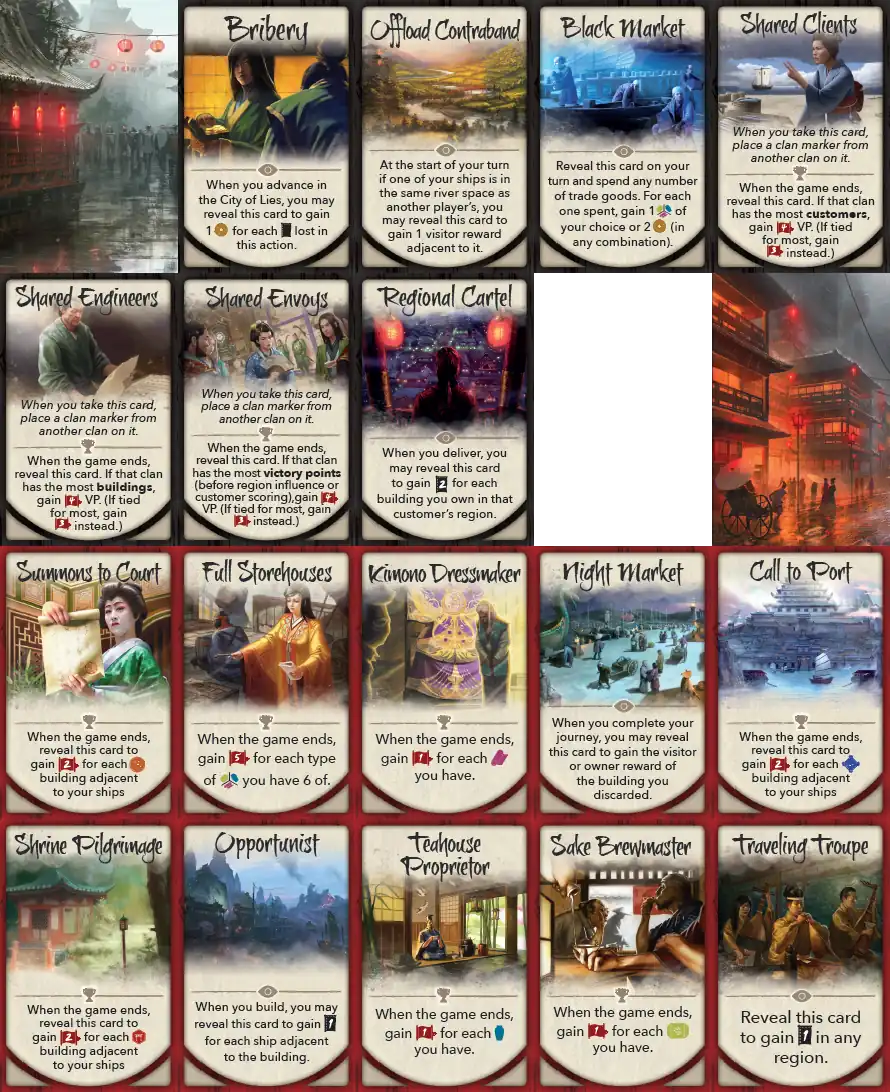
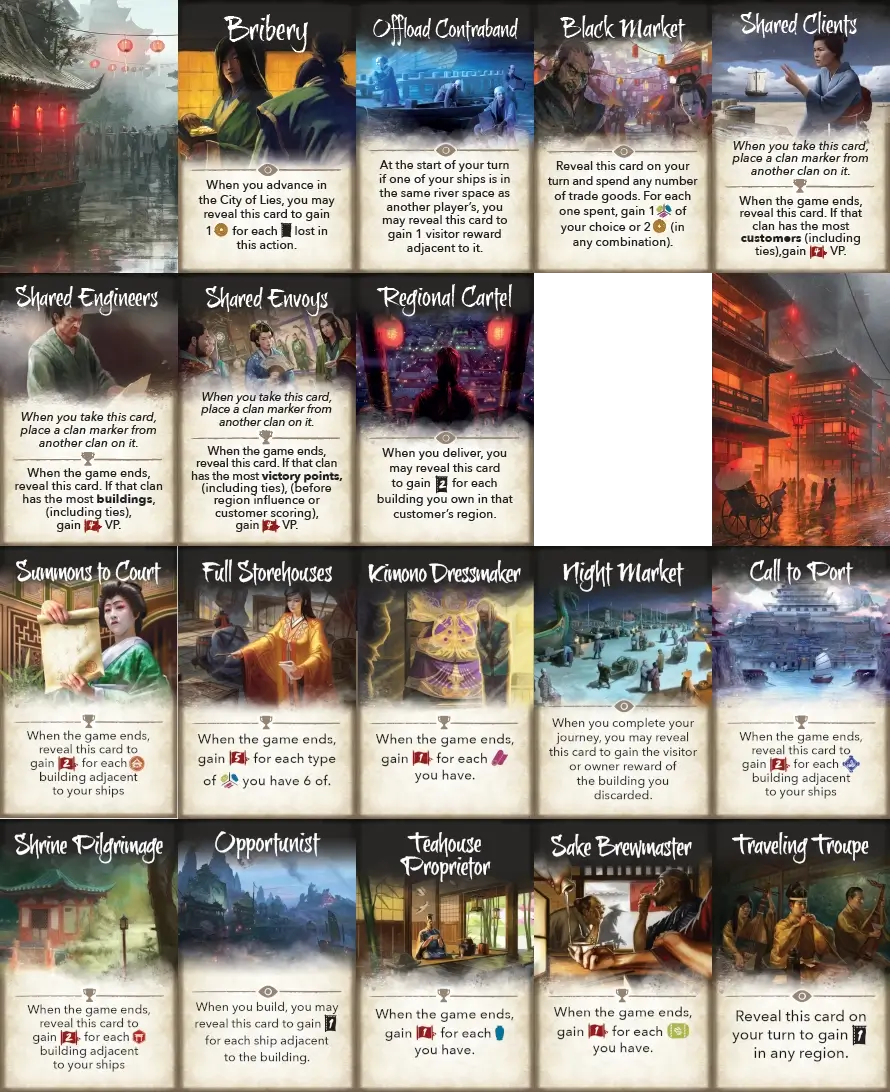
[Module 2][IMG] City cards
- reword Shared city cards
- tie is also rewarded 4 points

diff --git a/riverofgoldnightmarket.js b/riverofgoldnightmarket.js
@@ -5594,19 +5594,19 @@ function (dojo, declare, BgaAnimations, BgaDice) {
                 [ this.gamedatas.enums.CITY_CARD_TYPE.SHARED_CLI    , 
                     `
                     <span>${this.fsr(_("When you take this card, place a clan marker from another clan on it."), {})}</span>
-                    <span>${this.fsr(_("When the game ends, reveal this card. If that clan has the most customers, gain ${icon_score}."), {'icon_score': this.formatIcon('score',4),})}</span>
+                    <span>${this.fsr(_("When the game ends, reveal this card. If that clan has the most customers (including ties), gain ${icon_score}."), {'icon_score': this.formatIcon('score',4),})}</span>
                     `
                 ],
                 [ this.gamedatas.enums.CITY_CARD_TYPE.SHARED_ENG    , 
                     `
                     <span>${this.fsr(_("When you take this card, place a clan marker from another clan on it."), {})}</span>
-                    <span>${this.fsr(_("When the game ends, reveal this card. If that clan has the most buildings, gain ${icon_score}."), {'icon_score': this.formatIcon('score',4),})}</span>
+                    <span>${this.fsr(_("When the game ends, reveal this card. If that clan has the most buildings (including ties), gain ${icon_score}."), {'icon_score': this.formatIcon('score',4),})}</span>
                     `
                 ],
                 [ this.gamedatas.enums.CITY_CARD_TYPE.SHARED_ENV    , 
                     `
                     <span>${this.fsr(_("When you take this card, place a clan marker from another clan on it."), {})}</span>
-                    <span>${this.fsr(_("When the game ends, reveal this card. If that clan has the most victory points (before region influence or customer scoring), gain ${icon_score}."), {'icon_score': this.formatIcon('score',4),})}</span>
+                    <span>${this.fsr(_("When the game ends, reveal this card. If that clan has the most victory points (including ties), (before region influence or customer scoring), gain ${icon_score}."), {'icon_score': this.formatIcon('score',4),})}</span>
                     `
                 ],
                 [ this.gamedatas.enums.CITY_CARD_TYPE.CARTEL        ,  this.fsr(_("When you deliver, you may reveal this card to gain ${influence} for each building you own in that customer’s region."), {'influence':'','n2':2 })],
@@ -5657,7 +5657,7 @@ function (dojo, declare, BgaAnimations, BgaDice) {
                     <span>${this.fsr(_("When the game ends, gain ${icon_score} for each ${resource} you have."), {'icon_score': this.formatIcon('score',1), 'resource': this.formatIcon(RESOURCES[RESOURCE_TYPE_RICE])})}</span>
                     `
                 ],
-                [ this.gamedatas.enums.CITY_CARD_TYPE.TRAVEL_TRO    ,  this.fsr(_("Reveal this card to gain ${influence} in any region."), {'influence':'','n2':1 })],
+                [ this.gamedatas.enums.CITY_CARD_TYPE.TRAVEL_TRO    ,  this.fsr(_("Reveal this card on your turn to gain ${influence} in any region."), {'influence':'','n2':1 })],
             ]);
             descriptionLine = descriptionMap.get(card.type);
             let effectMap = new Map([

diff --git a/tests/States/ScoringTest.php b/tests/States/ScoringTest.php
@@ -4459,7 +4459,7 @@ final class ScoringTest extends TestCase
                 ], 
                 SCORING_DELIVERED => 2, 
                 SCORING_CUSTOMERS=> 0,
-                SCORING_CITY_CARD => 0,//+0
+                SCORING_CITY_CARD => 4,//+4
             ],
             2 => [ // PLAYER 2
                 SCORING_INGAME => 29, 
@@ -4496,11 +4496,98 @@ final class ScoringTest extends TestCase
         assertSame($expectedNotifs, TestDatas::$notifs['all']);
         $endScoringDatas = Globals::getEndScoring();
         assertSame($expectedScoring, $endScoringDatas);
-        assertSame(21,  TestDatas::$players[1]['player_score']);//19 + 2 Reduce to lowest score
+        assertSame(25,  TestDatas::$players[1]['player_score']);//19 + 6 Reduce to lowest score
         assertSame(0,  TestDatas::$players[1]['player_score_aux']);
-        assertSame(21,  TestDatas::$players[2]['player_score']);//+2 Reduce to lowest score
+        assertSame(25,  TestDatas::$players[2]['player_score']);//+2 Reduce to lowest score
         assertSame(0,  TestDatas::$players[2]['player_score_aux']);//REDUCED
         assertSame(3, Globals::getAutomaScore());
+    }
+    public function test_computeScoring_CityCard_SharedCli_Automa_Worst_KO(): void
+    {
+        
+        logTestRun(__CLASS__.".".__FUNCTION__);
+        $game = new GameMock();
+        GamestateMachine::$test_current_state = ST_END_SCORING;
+        Globals::setOptionSeishin(OPTION_SEISHIN_LEVEL_1);
+        Globals::setOptionCity(OPTION_CITY_OF_LIES_ON);
+        TestDatas::$players[2]['player_score'] = 29;
+        TestDatas::$cards[221]['card_location'] = CARD_CITY_LOCATION_HAND;
+        TestDatas::$cards[221]['player_id'] = 1;
+        TestDatas::$cards[221]['card_state'] = 1;
+        TestDatas::$cards[221]['type'] = CITY_CARD_TYPE::SHARED_CLI->value;
+        TestDatas::$tokens[43] = ['result_associative_index' => 43, 'meeple_id' => 43, 'meeple_state' => 1, 'meeple_location'=> MEEPLE_LOCATION_HIDDEN_CARD."1-".CARD_TYPE_CITY."-1-".CARD_CITY_LOCATION_HAND,'type' => MEEPLE_TYPE_CLAN_MARKER,  'player_id' => AUTOMA_PLAYER_ID,  ];
+        TestDatas::$cards[11]['card_location'] = CARD_LOCATION_DELIVERED;
+        TestDatas::$cards[11]['player_id'] = 1;
+        TestDatas::$cards[12]['card_location'] = CARD_LOCATION_DELIVERED;
+        TestDatas::$cards[12]['player_id'] = 1;
+        TestDatas::$cards[13]['card_location'] = CARD_LOCATION_DELIVERED;
+        TestDatas::$cards[13]['player_id'] = 2;
+        $expectedNotifs = [
+            "computeFinalScore",
+            "revealCityCard-1",
+            "scoreCityCard-1",
+            "scoreDeliveries-1", 
+            "scoreDeliveries-2", 
+            "scoreDeliveries--123", 
+            "endResourcesForCustomers--123", 
+            "teamWin",
+        ];
+        $expectedScoring = [
+            1 => [ // PLAYER 1
+                SCORING_INGAME => 19, 
+                SCORING_INFLUENCE => [
+                    REGION_1 => 0,
+                    REGION_2 => 0,
+                    REGION_3 => 0,
+                    REGION_4 => 0,
+                    REGION_5 => 0,
+                    REGION_6 => 0,
+                ], 
+                SCORING_DELIVERED => 5, 
+                SCORING_CUSTOMERS=> 0,
+                SCORING_CITY_CARD => 0,//+0
+            ],
+            2 => [ // PLAYER 2
+                SCORING_INGAME => 29, 
+                SCORING_INFLUENCE => [
+                    REGION_1 => 0,
+                    REGION_2 => 0,
+                    REGION_3 => 0,
+                    REGION_4 => 0,
+                    REGION_5 => 0,
+                    REGION_6 => 0,
+                ], 
+                SCORING_DELIVERED => 2, 
+                SCORING_CUSTOMERS=> 0,
+                SCORING_CITY_CARD => 0,
+            ],
+            AUTOMA_PLAYER_ID => [ 
+                SCORING_INGAME => 0, 
+                SCORING_INFLUENCE => [
+                    REGION_1 => 0,
+                    REGION_2 => 0,
+                    REGION_3 => 0,
+                    REGION_4 => 0,
+                    REGION_5 => 0,
+                    REGION_6 => 0,
+                ], 
+                SCORING_DELIVERED => 0,
+                SCORING_CUSTOMERS => 0,
+                SCORING_CITY_CARD => 0,
+            ],
+        ];
+
+        $game->stScoring();
+        
+        assertSame($expectedNotifs, TestDatas::$notifs['all']);
+        $endScoringDatas = Globals::getEndScoring();
+        assertSame($expectedScoring, $endScoringDatas);
+        assertSame(24,  TestDatas::$players[1]['player_score']);//19 + 5 Reduce to lowest score
+        assertSame(0,  TestDatas::$players[1]['player_score_aux']);
+        assertSame(24,  TestDatas::$players[2]['player_score']);//+2 Reduce to lowest score
+        assertSame(0,  TestDatas::$players[2]['player_score_aux']);//REDUCED
+        assertSame(0, Globals::getAutomaScore());
+    
     }
     public function test_computeScoring_CityCard_SharedEngineers_Automa_Leads(): void
     {
@@ -4622,6 +4709,87 @@ final class ScoringTest extends TestCase
                 ], 
                 SCORING_DELIVERED => 0, 
                 SCORING_CUSTOMERS=> 0,
+                SCORING_CITY_CARD => 4,//+4
+            ],
+            2 => [ // PLAYER 2
+                SCORING_INGAME => 29, 
+                SCORING_INFLUENCE => [
+                    REGION_1 => 0,
+                    REGION_2 => 0,
+                    REGION_3 => 0,
+                    REGION_4 => 0,
+                    REGION_5 => 0,
+                    REGION_6 => 0,
+                ], 
+                SCORING_DELIVERED => 0, 
+                SCORING_CUSTOMERS=> 0,
+                SCORING_CITY_CARD => 0,
+            ],
+            AUTOMA_PLAYER_ID => [ 
+                SCORING_INGAME => 0, 
+                SCORING_INFLUENCE => [
+                    REGION_1 => 0,
+                    REGION_2 => 0,
+                    REGION_3 => 0,
+                    REGION_4 => 0,
+                    REGION_5 => 0,
+                    REGION_6 => 0,
+                ], 
+                SCORING_DELIVERED => 0,
+                SCORING_CUSTOMERS => 0,
+                SCORING_CITY_CARD => 0,
+            ],
+        ];
+
+        $game->stScoring();
+        
+        assertSame($expectedNotifs, TestDatas::$notifs['all']);
+        $endScoringDatas = Globals::getEndScoring();
+        assertSame($expectedScoring, $endScoringDatas);
+        assertSame(23,  TestDatas::$players[1]['player_score']);//19 + 4 Reduce to lowest score
+        assertSame(0,  TestDatas::$players[1]['player_score_aux']);
+        assertSame(23,  TestDatas::$players[2]['player_score']);//+0 Reduce to lowest score
+        assertSame(0,  TestDatas::$players[2]['player_score_aux']);//REDUCED
+        assertSame(0, Globals::getAutomaScore());
+    }
+        public function test_computeScoring_CityCard_SharedEngineers_Automa_Worst_KO(): void
+    {
+        logTestRun(__CLASS__.".".__FUNCTION__);
+        $game = new GameMock();
+        GamestateMachine::$test_current_state = ST_END_SCORING;
+        Globals::setOptionSeishin(OPTION_SEISHIN_LEVEL_1);
+        Globals::setOptionCity(OPTION_CITY_OF_LIES_ON);
+        TestDatas::$players[2]['player_score'] = 29;
+        TestDatas::$cards[221]['card_location'] = CARD_CITY_LOCATION_HAND;
+        TestDatas::$cards[221]['player_id'] = 1;
+        TestDatas::$cards[221]['card_state'] = 1;
+        TestDatas::$cards[221]['type'] = CITY_CARD_TYPE::SHARED_ENG->value;
+        TestDatas::$tokens[43] = ['result_associative_index' => 43, 'meeple_id' => 43, 'meeple_state' => 1, 'meeple_location'=> MEEPLE_LOCATION_HIDDEN_CARD."1-".CARD_TYPE_CITY."-1-".CARD_CITY_LOCATION_HAND,'type' => MEEPLE_TYPE_CLAN_MARKER,  'player_id' => AUTOMA_PLAYER_ID,  ];
+        TestDatas::$tokens[41]['player_id'] = 2;
+        TestDatas::$tokens[42]['player_id'] = 2;
+        $expectedNotifs = [
+            "computeFinalScore",
+            "revealCityCard-1",
+            "scoreCityCard-1",
+            "scoreDeliveries-1", 
+            "scoreDeliveries-2", 
+            "scoreDeliveries--123", 
+            "endResourcesForCustomers--123", 
+            "teamWin",
+        ];
+        $expectedScoring = [
+            1 => [ // PLAYER 1
+                SCORING_INGAME => 19, 
+                SCORING_INFLUENCE => [
+                    REGION_1 => 0,
+                    REGION_2 => 0,
+                    REGION_3 => 0,
+                    REGION_4 => 0,
+                    REGION_5 => 0,
+                    REGION_6 => 0,
+                ], 
+                SCORING_DELIVERED => 0, 
+                SCORING_CUSTOMERS=> 0,
                 SCORING_CITY_CARD => 0,
             ],
             2 => [ // PLAYER 2
@@ -4665,6 +4833,7 @@ final class ScoringTest extends TestCase
         assertSame(0,  TestDatas::$players[2]['player_score_aux']);//REDUCED
         assertSame(0, Globals::getAutomaScore());
     }
+
     public function test_computeScoring_CityCard_SharedEnvoys_beforeOtherShared_KO(): void
     {
         logTestRun(__CLASS__.".".__FUNCTION__);
@@ -4932,6 +5101,96 @@ final class ScoringTest extends TestCase
         assertSame(25,  TestDatas::$players[1]['player_score']);//21 + 4 Reduce to lowest score
         assertSame(0,  TestDatas::$players[1]['player_score_aux']);
         assertSame(25,  TestDatas::$players[2]['player_score']);//22 + 4 Reduce to lowest score
+        assertSame(0,  TestDatas::$players[2]['player_score_aux']);//REDUCED
+        assertSame(23, Globals::getAutomaScore());
+    }
+        public function test_computeScoring_CityCard_SharedEnvoys_Automa_Ties(): void
+    {
+        logTestRun(__CLASS__.".".__FUNCTION__);
+        $game = new GameMock();
+        GamestateMachine::$test_current_state = ST_END_SCORING;
+        Globals::setOptionSeishin(OPTION_SEISHIN_LEVEL_1);
+        Globals::setOptionCity(OPTION_CITY_OF_LIES_ON);
+        Globals::setAutomaScore(23);
+        TestDatas::$players[1]['player_score'] = 21;
+        TestDatas::$players[2]['player_score'] = 23;
+        TestDatas::$cards[221]['card_location'] = CARD_CITY_LOCATION_HAND;
+        TestDatas::$cards[221]['player_id'] = 1;
+        TestDatas::$cards[221]['card_state'] = 1;
+        TestDatas::$cards[221]['type'] = CITY_CARD_TYPE::SHARED_ENG->value;
+        TestDatas::$tokens[43] = ['result_associative_index' => 43, 'meeple_id' => 43, 'meeple_state' => 1, 'meeple_location'=> MEEPLE_LOCATION_HIDDEN_CARD."1-".CARD_TYPE_CITY."-1-".CARD_CITY_LOCATION_HAND,'type' => MEEPLE_TYPE_CLAN_MARKER,  'player_id' => AUTOMA_PLAYER_ID,  ];
+        TestDatas::$tokens[41]['player_id'] = AUTOMA_PLAYER_ID;
+        TestDatas::$tokens[42]['player_id'] = AUTOMA_PLAYER_ID;
+        TestDatas::$cards[222]['card_location'] = CARD_CITY_LOCATION_HAND;
+        TestDatas::$cards[222]['player_id'] = 2;
+        TestDatas::$cards[222]['card_state'] = 2;
+        TestDatas::$cards[222]['type'] = CITY_CARD_TYPE::SHARED_ENV->value;
+        TestDatas::$tokens[44] = ['result_associative_index' => 44, 'meeple_id' => 44, 'meeple_state' => 1, 'meeple_location'=> MEEPLE_LOCATION_HIDDEN_CARD."2-".CARD_TYPE_CITY."-2-".CARD_CITY_LOCATION_HAND,'type' => MEEPLE_TYPE_CLAN_MARKER,  'player_id' => AUTOMA_PLAYER_ID,  ];
+        $expectedNotifs = [
+            "computeFinalScore",
+            "revealCityCard-2",
+            "scoreCityCard-2",
+            "revealCityCard-1",
+            "scoreCityCard-1",
+            "scoreDeliveries-1", 
+            "scoreDeliveries-2", 
+            "scoreDeliveries--123", 
+            "endResourcesForCustomers--123", 
+            "teamWin",
+        ];
+        $expectedScoring = [
+            1 => [ // PLAYER 1
+                SCORING_INGAME => 21, 
+                SCORING_INFLUENCE => [
+                    REGION_1 => 0,
+                    REGION_2 => 0,
+                    REGION_3 => 0,
+                    REGION_4 => 0,
+                    REGION_5 => 0,
+                    REGION_6 => 0,
+                ], 
+                SCORING_DELIVERED => 0, 
+                SCORING_CUSTOMERS=> 0,
+                SCORING_CITY_CARD => 4,//+4
+            ],
+            2 => [ // PLAYER 2
+                SCORING_INGAME => 23, 
+                SCORING_INFLUENCE => [
+                    REGION_1 => 0,
+                    REGION_2 => 0,
+                    REGION_3 => 0,
+                    REGION_4 => 0,
+                    REGION_5 => 0,
+                    REGION_6 => 0,
+                ], 
+                SCORING_DELIVERED => 0, 
+                SCORING_CUSTOMERS=> 0,
+                SCORING_CITY_CARD => 4,//+4
+            ],
+            AUTOMA_PLAYER_ID => [ 
+                SCORING_INGAME => 23, 
+                SCORING_INFLUENCE => [
+                    REGION_1 => 0,
+                    REGION_2 => 0,
+                    REGION_3 => 0,
+                    REGION_4 => 0,
+                    REGION_5 => 0,
+                    REGION_6 => 0,
+                ], 
+                SCORING_DELIVERED => 0,
+                SCORING_CUSTOMERS => 0,
+                SCORING_CITY_CARD => 0,
+            ],
+        ];
+
+        $game->stScoring();
+        
+        assertSame($expectedNotifs, TestDatas::$notifs['all']);
+        $endScoringDatas = Globals::getEndScoring();
+        assertSame($expectedScoring, $endScoringDatas);
+        assertSame(25,  TestDatas::$players[1]['player_score']);//21 + 4 Reduce to lowest score
+        assertSame(0,  TestDatas::$players[1]['player_score_aux']);
+        assertSame(25,  TestDatas::$players[2]['player_score']);//23 + 4 Reduce to lowest score
         assertSame(0,  TestDatas::$players[2]['player_score_aux']);//REDUCED
         assertSame(23, Globals::getAutomaScore());
     }

diff --git a/modules/php/Managers/Players.php b/modules/php/Managers/Players.php
@@ -751,9 +751,10 @@ class Players extends \ROG\Helpers\DB_Manager
     $betterPlayers = $players->filter(function(Player $p) use ($targetPid, $nbTargetDeliveries){
       if($p->getId() == $targetPid) return false;
       $nbDeliveries = $p->getNbDeliveredCustomers();
-      if($nbTargetDeliveries <= $nbDeliveries){
+      if($nbTargetDeliveries < $nbDeliveries){
         return true;
       }
+      //INCLUDE TIES
       return false;
     });
     return $betterPlayers->count() == 0;
@@ -767,9 +768,10 @@ class Players extends \ROG\Helpers\DB_Manager
     $betterPlayers = $players->filter(function(Player $p) use ($targetPid, $nbTarget){
       if($p->getId() == $targetPid) return false;
       $nb = $p->getNbBuildings();
-      if($nbTarget <= $nb){
+      if($nbTarget < $nb){
         return true;
       }
+      //INCLUDE TIES
       return false;
     });
     return $betterPlayers->count() == 0;
@@ -781,9 +783,10 @@ class Players extends \ROG\Helpers\DB_Manager
     $betterPlayers = $players->filter(function(Player $p) use ($targetPid, $nbTarget){
       if($p->getId() == $targetPid) return false;
       $nb = Players::getUpdatedPlayerScore($p->getId());
-      if($nbTarget <= $nb){
+      if($nbTarget < $nb){
         return true;
       }
+      //INCLUDE TIES
       return false;
     });
     return $betterPlayers->count() == 0;
